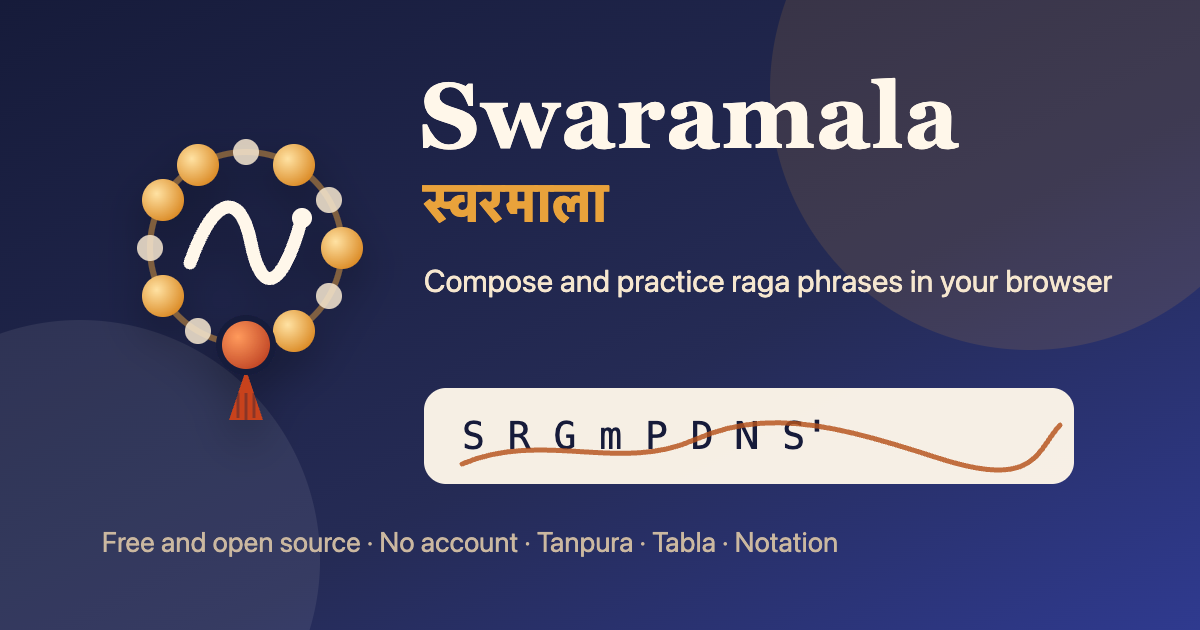
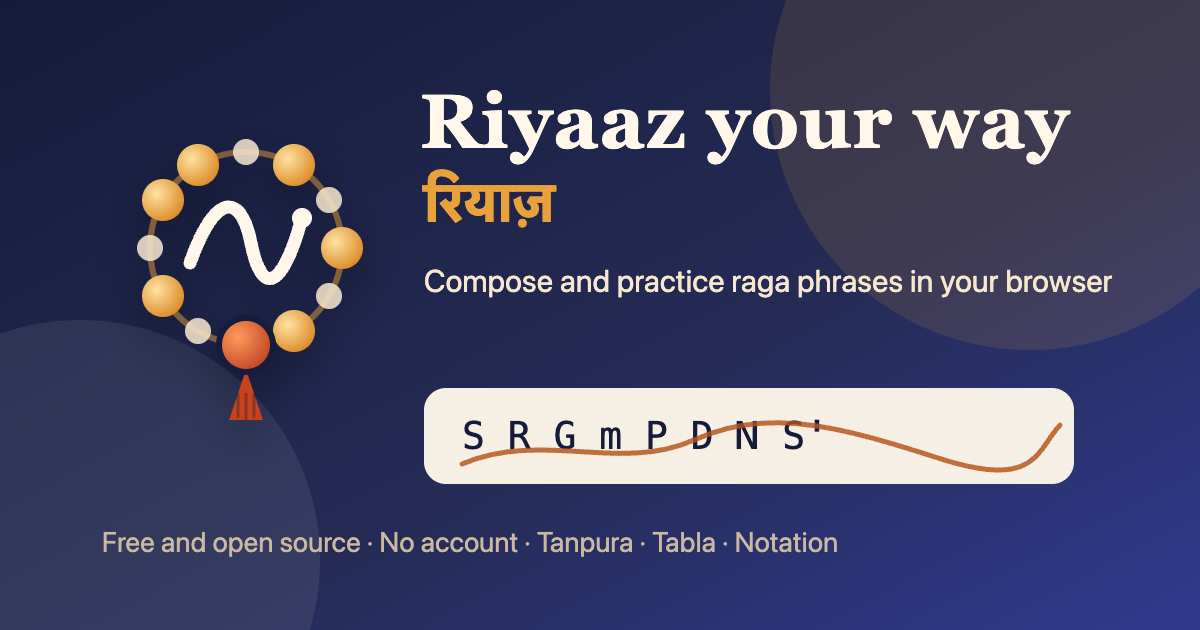
Rename the site to Riyaaz your way

Changed region(s): [[0.3392, 0.1206, 0.8942, 0.2714], [0.3392, 0.2714, 0.5242, 0.3619]]

diff --git a/src/raga_composer/static/marketing/head-tags.html b/src/raga_composer/static/marketing/head-tags.html
@@ -1,4 +1,4 @@
-<title>Swaramala: compose and practice Hindustani classical music</title>
+<title>Riyaaz your way: compose and practice Hindustani classical music</title>
 <meta name="description" content="Compose and practice Hindustani raga phrases in your browser with swara notation, tanpura, tabla, piano, and harmonium. Free, open source, and no account required.">
 <link rel="canonical" href="{{ SITE_URL }}">
 <link rel="icon" href="img/favicon.svg" type="image/svg+xml">
@@ -6,29 +6,29 @@
 <meta name="theme-color" content="#161b3a">
 
 <meta property="og:type" content="website">
-<meta property="og:site_name" content="Swaramala">
-<meta property="og:title" content="Swaramala: compose and practice Hindustani classical music">
+<meta property="og:site_name" content="Riyaaz your way">
+<meta property="og:title" content="Riyaaz your way: compose and practice Hindustani classical music">
 <meta property="og:description" content="A free browser app for Hindustani raga practice with swara notation, tanpura, tabla, piano, and harmonium.">
 <meta property="og:url" content="{{ SITE_URL }}">
 <meta property="og:image" content="{{ SITE_URL }}marketing/og-image.png">
-<meta property="og:image:alt" content="Swaramala logo with the tagline Compose and practice raga phrases in your browser">
+<meta property="og:image:alt" content="Riyaaz your way logo with the tagline Compose and practice raga phrases in your browser">
 <meta property="og:image:width" content="1200">
 <meta property="og:image:height" content="630">
 
 <meta name="twitter:card" content="summary_large_image">
-<meta name="twitter:title" content="Swaramala: compose and practice Hindustani classical music">
+<meta name="twitter:title" content="Riyaaz your way: compose and practice Hindustani classical music">
 <meta name="twitter:description" content="A free browser app for Hindustani raga practice with swara notation, tanpura, tabla, piano, and harmonium.">
 <meta name="twitter:image" content="{{ SITE_URL }}marketing/og-image.png">
-<meta name="twitter:image:alt" content="Swaramala logo with the tagline Compose and practice raga phrases in your browser">
+<meta name="twitter:image:alt" content="Riyaaz your way logo with the tagline Compose and practice raga phrases in your browser">
 
 <script type="application/ld+json">
 {
   "@context": "https://schema.org",
   "@type": "WebApplication",
-  "name": "Swaramala",
-  "alternateName": "स्वरमाला",
+  "name": "Riyaaz your way",
+  "alternateName": "रियाज़",
   "url": "{{ SITE_URL }}",
-  "description": "Swaramala is a free browser app for composing and practicing Hindustani classical raga phrases with swara notation, tanpura, tabla, piano, and harmonium.",
+  "description": "Riyaaz your way is a free browser app for composing and practicing Hindustani classical raga phrases with swara notation, tanpura, tabla, piano, and harmonium.",
   "applicationCategory": "MusicApplication",
   "operatingSystem": "Any",
   "browserRequirements": "Requires a modern browser with Web Audio support.",

diff --git a/src/raga_composer/static/js/app.js b/src/raga_composer/static/js/app.js
@@ -739,7 +739,7 @@ function phraseCard(text, { name, onDone = null } = {}) {
 function renderRagaHeading() {
   const r = state.raga;
   $("#raga-name").textContent = r ? `Raga ${r.name}` : "Choose a raga";
-  document.title = r ? `${r.name} · Swaramala` : "Swaramala · compose Hindustani classical phrases";
+  document.title = r ? `${r.name} · Riyaaz your way` : "Riyaaz your way · compose Hindustani classical phrases";
   const facts = $("#raga-facts");
   facts.innerHTML = "";
   if (!r) return;
@@ -811,7 +811,7 @@ function renderRagaInfo() {
       nextStep("improv", "Practice alaap and taan",
         "Listen to free alaaps that widen step by step and 8- and 16-beat taans for the sthayi and antara, then sing them back."),
       nextStep("compose", "Compose your own line",
-        "Pick a direction, a start note, and an end note. Swaramala generates options that follow the raga."),
+        "Pick a direction, a start note, and an end note. Riyaaz your way generates options that follow the raga."),
       nextStep("library", "Open your library", "Your saved lines and recordings.")),
   );
   renderCompositions();
@@ -1440,7 +1440,7 @@ async function generate({ intoEditor = false } = {}) {
     if (i.taal) setTaal(i.taal);
     const summary = $("#intent-summary");
     summary.innerHTML = "";
-    summary.append("Swaramala understood: ", ...i.summary.map((s) => el("span", { class: "tag" }, proseNotes(s))));
+    summary.append("Understood: ", ...i.summary.map((s) => el("span", { class: "tag" }, proseNotes(s))));
     state.chosenPattern = -1;
     renderPatterns(res.patterns);
     $("#generate").textContent = "Generate new options";
@@ -2196,7 +2196,7 @@ function bindLibraryActions() {
 
 // Wire up -------------------------------------------------------------------------------
 async function init() {
-  setLoadingStatus("Loading Swaramala data.");
+  setLoadingStatus("Loading Riyaaz your way data.");
   const config = await api("/api/config");
   state.taals = config.taals;
   config.taals.forEach((t) => $("#taal").append(el("option", { value: t.name }, `${t.name} (${t.beats})`)));
@@ -2277,5 +2277,5 @@ async function init() {
 
 init().catch((err) => {
   console.error(err);
-  setLoadingStatus(`Swaramala couldn't load its data. Refresh the page, or try again after the site finishes deploying. ${err.message}`, true);
+  setLoadingStatus(`Riyaaz your way couldn't load its data. Refresh the page, or try again after the site finishes deploying. ${err.message}`, true);
 });

diff --git a/src/raga_composer/static/index.html b/src/raga_composer/static/index.html
@@ -5,7 +5,7 @@
   <meta name="viewport" content="width=device-width, initial-scale=1">
   <meta http-equiv="Content-Security-Policy" content="default-src 'self'; script-src 'self'; style-src 'self'; img-src 'self' data:; media-src 'self' blob: data:; connect-src 'self'; object-src 'none'; base-uri 'none'">
   <!-- head-tags: replaced by scripts/build_site.py with marketing/head-tags.html -->
-  <title>Swaramala: compose and practice Hindustani classical music</title>
+  <title>Riyaaz your way: compose and practice Hindustani classical music</title>
   <link rel="icon" href="./img/favicon.svg" type="image/svg+xml">
   <!-- /head-tags -->
   <link rel="stylesheet" href="./styles.css">
@@ -13,9 +13,9 @@
 <body>
 <a class="skip-link" href="#main">Skip to content</a>
 <header class="topbar">
-  <a class="brand" href="./" aria-label="Swaramala home">
+  <a class="brand" href="./" aria-label="Riyaaz your way home">
     <img src="./img/logo-mark.svg" alt="" width="36" height="36">
-    <span class="wordmark">Swaramala <span class="devanagari" lang="hi">स्वरमाला</span></span>
+    <span class="wordmark">Riyaaz your way <span class="devanagari" lang="hi">रियाज़</span></span>
   </a>
   <nav class="primary-nav" aria-label="Main">
     <a href="#overview" data-section="learn">Learn</a>
@@ -33,7 +33,7 @@
 
 <div id="app-status" class="app-status" role="status" aria-live="polite">
   <span class="spinner" aria-hidden="true"></span>
-  <span>Loading Swaramala data.</span>
+  <span>Loading Riyaaz your way data.</span>
 </div>
 
 <section class="soundbar" aria-label="Sound controls">
@@ -180,7 +180,7 @@
     <h2 id="compose-title" class="sr-only">Compose</h2>
     <div class="panel compose-panel">
       <h2><span class="step">1</span> Describe your phrase</h2>
-      <p class="hint">Choose a few musical details. Swaramala writes the prompt for you, and every option follows the raga's aaroh and avroh.</p>
+      <p class="hint">Choose a few musical details. Riyaaz your way writes the prompt for you, and every option follows the raga's aaroh and avroh.</p>
       <div class="builder" role="group" aria-label="Phrase details">
         <label>Direction
           <select id="b-contour">

diff --git a/src/raga_composer/static/404.html b/src/raga_composer/static/404.html
@@ -4,7 +4,7 @@
   <meta charset="utf-8">
   <meta name="viewport" content="width=device-width, initial-scale=1">
   <meta http-equiv="Content-Security-Policy" content="default-src 'self'; script-src 'self'; style-src 'self'; img-src 'self' data:; media-src 'self' blob: data:; connect-src 'self'; object-src 'none'; base-uri 'none'">
-  <title>Page not found · Swaramala</title>
+  <title>Page not found · Riyaaz your way</title>
   <link rel="icon" href="./img/favicon.svg" type="image/svg+xml">
   <link rel="stylesheet" href="./styles.css">
 </head>
@@ -12,8 +12,8 @@
   <main class="not-found">
     <img src="./img/logo-mark.svg" alt="" width="64" height="64">
     <h1>Page not found</h1>
-    <p>The page you requested isn't part of Swaramala.</p>
-    <p><a class="button primary" href="./">Open Swaramala</a></p>
+    <p>The page you requested isn't part of Riyaaz your way.</p>
+    <p><a class="button primary" href="./">Open Riyaaz your way</a></p>
   </main>
 </body>
 </html>

diff --git a/src/raga_composer/static/js/library-store.js b/src/raga_composer/static/js/library-store.js
@@ -266,7 +266,7 @@ export async function exportLibrary() {
 function validateImport(payload, sizeBytes) {
   if (sizeBytes > MAX_IMPORT_BYTES) throw new Error("The import file is larger than 75 MB.");
   if (!payload || payload.swaramala_library_version !== EXPORT_VERSION) {
-    throw new Error("Choose a Swaramala library export file.");
+    throw new Error("Choose a Riyaaz your way library export file.");
   }
   if (!Array.isArray(payload.lines) || !Array.isArray(payload.recordings)) {
     throw new Error("The library export is missing lines or recordings.");

diff --git a/src/raga_composer/static/js/local-api.js b/src/raga_composer/static/js/local-api.js
@@ -144,7 +144,7 @@ export async function exportLibrary() {
   const url = URL.createObjectURL(blob);
   const a = document.createElement("a");
   a.href = url;
-  a.download = `swaramala-library-${new Date().toISOString().slice(0, 10)}.json`;
+  a.download = `riyaaz-library-${new Date().toISOString().slice(0, 10)}.json`;
   a.click();
   // Revoking right away can cancel the download in Safari and Firefox.
   setTimeout(() => URL.revokeObjectURL(url), 60_000);

diff --git a/src/raga_composer/api.py b/src/raga_composer/api.py
@@ -42,7 +42,7 @@ from raga_composer.storage import LocalBlobStore, Repository
 from raga_composer.taal import TAALS, Taal
 
 STATIC_DIR = Path(__file__).parent / "static"
-APP_NAME = "Swaramala"
+APP_NAME = "Riyaaz your way"
 SESSION_COOKIE = "swaramala_session"
 SESSION_COOKIE_MAX_AGE = 60 * 60 * 24 * 90
 UNSAFE_METHODS = {"POST", "PUT", "PATCH", "DELETE"}

diff --git a/src/raga_composer/auth.py b/src/raga_composer/auth.py
@@ -49,6 +49,7 @@ COMMON_PASSWORDS = frozenset(
         "internet",
         "changeme",
         "swaramala",
+        "riyaaz",
         "sargam123",
         "harmonium",
     )

diff --git a/scripts/build_site.py b/scripts/build_site.py
@@ -1,4 +1,4 @@
-"""Build the static Swaramala site for GitHub Pages."""
+"""Build the static Riyaaz your way site for GitHub Pages."""
 
 from __future__ import annotations
 

diff --git a/src/raga_composer/__init__.py b/src/raga_composer/__init__.py
@@ -1,1 +1,1 @@
-"""Swaramala: generate and arrange phrases that obey a Hindustani raga."""
+"""Riyaaz your way: generate and arrange phrases that obey a Hindustani raga."""

diff --git a/docs/marketing/go-to-market.md b/docs/marketing/go-to-market.md
@@ -1,12 +1,12 @@
-# Go-to-market plan for Swaramala
+# Go-to-market plan for Riyaaz your way
 
-Swaramala is a free, open source web app for composing and practicing Hindustani classical music. You can use it in the browser at `https://asawari44.github.io/raga-composer/`. The URL can change later if the repository is renamed. The site has no accounts and no server. Learners can practice with raga reference data, swara notation, generated phrases, tanpura, tabla, piano, harmonium voices, local saved lines, and browser-based recording.
+Riyaaz your way is a free, open source web app for composing and practicing Hindustani classical music. You can use it in the browser at `https://asawari44.github.io/raga-composer/`. The URL can change later if the repository is renamed. The site has no accounts and no server. Learners can practice with raga reference data, swara notation, generated phrases, tanpura, tabla, piano, harmonium voices, local saved lines, and browser-based recording.
 
 ## Positioning
 
 ### Positioning statement
 
-For Hindustani classical learners, teachers, and musicians who want a practical way to explore raga notation and practice ideas, Swaramala is a free browser-based composition and practice app that combines raga rules, swara notation, tanpura, tabla, and instrument playback without accounts or paid access.
+For Hindustani classical learners, teachers, and musicians who want a practical way to explore raga notation and practice ideas, Riyaaz your way is a free browser-based composition and practice app that combines raga rules, swara notation, tanpura, tabla, and instrument playback without accounts or paid access.
 
 ### Tagline
 
@@ -30,7 +30,7 @@ Teachers need a no-cost tool they can share with students for reference, demonst
 
 ### Music schools
 
-Music schools need tools that support group learning and practice outside class. They may share Swaramala in class groups, course notes, newsletters, and student portals.
+Music schools need tools that support group learning and practice outside class. They may share Riyaaz your way in class groups, course notes, newsletters, and student portals.
 
 ### Hobbyists
 
@@ -50,7 +50,7 @@ Instrumentalists need fast raga reference, scale playback, and phrase ideas that
 |---|---|---|
 | Students | Practice raga phrases with notation, tanpura, and tabla in one browser tab. | Use raga facts, swara notation, generated alaap and taan phrases, and playback to reinforce lessons. |
 | Teachers and gurus | Share a free practice companion with students without creating accounts. | Use it for demonstrations, homework prompts, and notation review. Encourage students to confirm repertoire and stylistic details with you. |
-| Music schools | Give students a browser-based raga practice tool that works outside class. | Add Swaramala to resource pages, class groups, and newsletters. It is free and open source. |
+| Music schools | Give students a browser-based raga practice tool that works outside class. | Add Riyaaz your way to resource pages, class groups, and newsletters. It is free and open source. |
 | Hobbyists | Explore Hindustani swaras and ragas with guided notation and sound. | Start with familiar ragas, play notes from the on-screen keyboard, and learn how notation maps to sound. |
 | Diaspora learners | Keep raga practice accessible between remote lessons. | Use it from a static web page, without a server account, and share saved work by export when needed. |
 | Instrumentalists | Turn raga rules into playable practice phrases. | Choose Sa, use piano or harmonium voices, and compare phrases against aaroh, avroh, pakad, and varjit swaras. |
@@ -65,7 +65,7 @@ Rank channels by expected reach and effort for a no-budget launch. Start with ch
 | 2 | WhatsApp and Facebook music groups | High | Medium | Teachers, students, and school communities already share practice tools in groups. | Ask teachers to share the app with one class group and invite corrections. |
 | 3 | Music teachers, gurus, and newsletters | Medium to high | Medium | Trusted teachers can drive sustained use and feedback. | Send a concise teacher message with the free, no-account value proposition. |
 | 4 | Reddit communities such as `r/hindustaniclassical` and `r/IndianClassical` | Medium | Low | Niche communities can provide accurate feedback and early contributors. | Post only where self-promotion rules allow it, and frame the post as a free tool seeking feedback. |
-| 5 | Music schools and Gandharva Mahavidyalaya networks | Medium | Medium | Schools can place Swaramala into repeat use. | Contact coordinators with a short demo and teacher handout. |
+| 5 | Music schools and Gandharva Mahavidyalaya networks | Medium | Medium | Schools can place Riyaaz your way into repeat use. | Contact coordinators with a short demo and teacher handout. |
 | 6 | Search engine optimization | Medium | Medium | Learners search for raga names, notation, tanpura, tabla, and theka queries. | Improve metadata now, then add per-raga pages later. |
 | 7 | Product Hunt | Medium | Low | Product Hunt can reach makers, musicians, and teachers who like free tools. | Launch after the site has metadata, social images, and a short demo video. |
 | 8 | Hacker News Show HN | Medium | Low | Show HN can reach developers, open source contributors, and music technologists. | Post with technical clarity and invite feedback on the static app. |
@@ -142,7 +142,7 @@ Rank channels by expected reach and effort for a no-budget launch. Start with ch
 
 ### Immediate work
 
-- Use the primary title `Swaramala: compose and practice Hindustani classical music`.
+- Use the primary title `Riyaaz your way: compose and practice Hindustani classical music`.
 - Use a concise description that includes raga phrases, notation, tanpura, tabla, and free browser app.
 - Add `sitemap.xml`. A project site can't serve `robots.txt`, because crawlers only read it from the domain root; submit the sitemap in Google Search Console instead.
 - Add JSON-LD for a free `WebApplication` in the `Music` category.

diff --git a/docs/product/roadmap.md b/docs/product/roadmap.md
@@ -1,6 +1,6 @@
 # Product roadmap
 
-Swaramala helps you compose and practice Hindustani classical music in your browser. The static release runs on GitHub Pages at `https://asawari44.github.io/raga-composer/`, does not require accounts, and keeps your data in the browser unless you export it. The URL can change if the repository is renamed, so the application should use relative URLs everywhere and keep unavoidable absolute URLs in one build-time setting.
+Riyaaz your way helps you compose and practice Hindustani classical music in your browser. The static release runs on GitHub Pages at `https://asawari44.github.io/raga-composer/`, does not require accounts, and keeps your data in the browser unless you export it. The URL can change if the repository is renamed, so the application should use relative URLs everywhere and keep unavoidable absolute URLs in one build-time setting.
 
 ## Target users and top jobs
 
@@ -14,13 +14,13 @@ Swaramala helps you compose and practice Hindustani classical music in your brow
 
 ## Competitive scan
 
-| Product | What it does well | Gap that Swaramala can fill |
+| Product | What it does well | Gap that Riyaaz your way can fill |
 |---|---|---|
 | [iTablaPro](https://www.upasani.org/home/iTablaPro.html) | Provides high-quality tabla, tanpura, swarmandal, and practice accompaniment across many taals. | It focuses on accompaniment, not raga-aware composition, notation editing, or homework packs. |
 | [iTanpura](http://upasani.org/home/itanpura.html) and shruti box apps | Provide a reliable drone for daily riyaz. | They do not teach phrase construction or validate raga movement. |
 | [Riyaz](https://riyazapp.com/) | Tracks vocal range, accuracy, breath control, and progress. | It focuses on vocal coaching and guided lessons, not browser-based raga composition or teacher-owned notation packs. |
-| [SwarShala](https://www.swarclassical.com/SwarShala/) | Offers Indian music notation, virtual instruments, tutorials, and recording in a full software suite. | It is broader and heavier than a static web application; Swaramala can stay free, shareable, and focused. |
-| Sur Sadhana and [Sadhana AI](https://sadhana-ai.com/) | Emphasize practice support, pitch or timing analysis, and guided riyaz. | They validate singing, while Swaramala can validate generated notation and composition structure. |
+| [SwarShala](https://www.swarclassical.com/SwarShala/) | Offers Indian music notation, virtual instruments, tutorials, and recording in a full software suite. | It is broader and heavier than a static web application; Riyaaz your way can stay free, shareable, and focused. |
+| Sur Sadhana and [Sadhana AI](https://sadhana-ai.com/) | Emphasize practice support, pitch or timing analysis, and guided riyaz. | They validate singing, while Riyaaz your way can validate generated notation and composition structure. |
 | Vishwamohini and other raga reference tools | Help you look up raga information and examples. | They usually do not combine reference, generation, notation editing, playback, and recording in one browser workflow. |
 | [Raag Hindustani](https://raag-hindustani.com/) | Explains Hindustani concepts from first principles with notation examples. | It is a learning reference, not an interactive practice workspace. |
 | [Flat](https://flat.io/) | Provides collaborative Western notation, sharing, classroom flows, and community. | It does not model Hindustani swara notation, raga movement, taals, or tanpura and tabla practice. |
@@ -167,4 +167,4 @@ Swaramala helps you compose and practice Hindustani classical music in your brow
 - **Marketplace or paid lessons:** Monetization adds trust, tax, support, and content liability before the core practice loop proves value.
 - **Full AI grading:** Pitch and timing feedback can help, but teacher-like grading needs accuracy, explainability, and careful framing.
 - **Mobile native applications:** The static web application should prove the workflows before you maintain platform-specific releases.
-- **Full DAW features:** Multi-track production overlaps with SwarShala, MuseScore, and other tools. Swaramala should stay focused on raga-aware practice.
+- **Full DAW features:** Multi-track production overlaps with SwarShala, MuseScore, and other tools. Riyaaz your way should stay focused on raga-aware practice.
